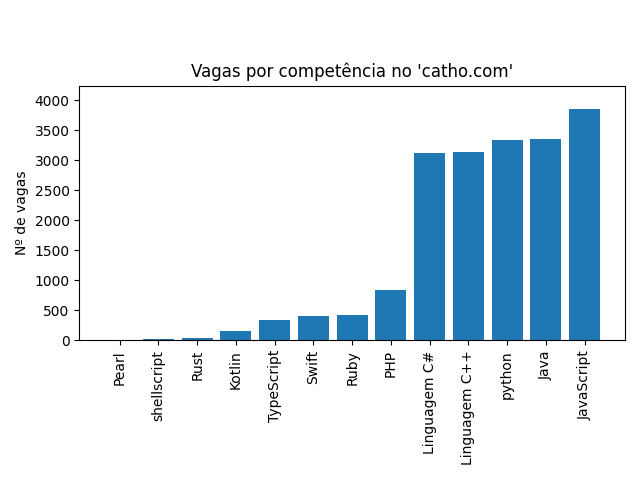
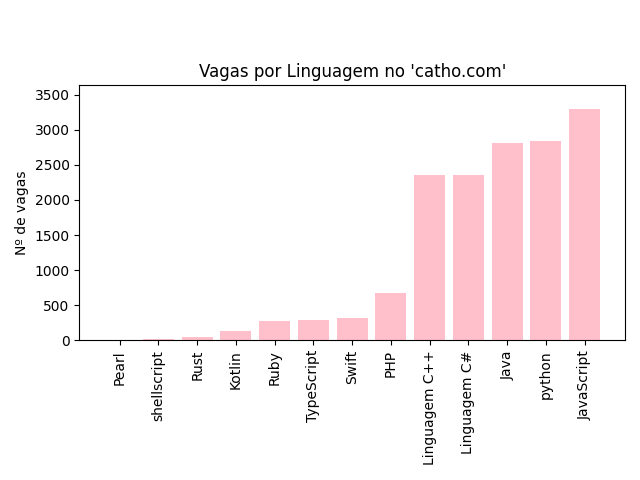
Atualizando Dados e Flexibilizando funções
Cores diferentes para cada site e títulos mais precisos

diff --git a/scraper.py b/scraper.py
@@ -18,7 +18,7 @@ def carrossel(png_files, output_file):
     c.save()
 
 
-def plot_histogram(data, site, figura):
+def plot_histogram(data, site, figura,color,competencia):
     names = list(data.keys())
     values = list(data.values())
 
@@ -29,13 +29,13 @@ def plot_histogram(data, site, figura):
     sorted_names = [names[i] for i in sorted_indices]
     sorted_values = [values[i] for i in sorted_indices]
     
-    plt.bar(range(len(data)), sorted_values, tick_label=sorted_names)
+    plt.bar(range(len(data)), sorted_values, tick_label=sorted_names,color=color)
     plt.xticks(rotation=90)
     plt.ylim(0, (1.1)*max(values));
     
     # Titulo dos eixos e do gráfico
     plt.ylabel('Nº de vagas') 
-    plt.title(f"Vagas por competência no '{site}'")
+    plt.title(f"Vagas por {competencia} no '{site}'")
 
     plt.tight_layout(rect=[0, 0, 1, 0.9])
     plt.savefig(f"{figura}.png")
@@ -142,23 +142,26 @@ def write_file(name,text):
     file.write(text);
     file.close();
 
-def execute(to_print,vector,file_name,site_name,figura):
+def execute(to_print,vector,file_name,site_name,figura,competencia):
     print(to_print);
 
     if to_print.find("Catho") > 0:
-        temp, dicionario = catho_com(vector)
+        temp, dicionario = catho_com(vector);
+        color = "pink";
 
     if to_print.find("vagas") > 0:
         temp, dicionario = vagas_com(vector);
+        color = "green";
 
     if to_print.find("infojobs") > 0:
         temp, dicionario = infojobs_com(vector);
+        color = "blue";
 
     write_file(file_name,temp);
 
-    plot_histogram(dicionario,site_name,figura);
+    plot_histogram(dicionario,site_name,figura,color,competencia);
 
-certs = ["PCNSA","MTCNA","CCNA","HCIA","JNCIA","ACMA","NSE","ITIL","COBIT","AZURE","MCSE","AWS","COMPTIA","UniFi","CISSP","GCP","OCI","PMP","VMware"];
+certs = ["PCNSA","MTCNA","CCNA","HCIA","JNCIA","NSE","ITIL","COBIT","AZURE","MCSE","AWS","COMPTIA","UniFi","CISSP","GCP","OCI","PMP","VMware"];
 langs = ['python','Linguagem C++','Linguagem C#','JavaScript','TypeScript','PHP','Swift','Kotlin','Java','Linguagem Go','Ruby','shellscript','Rust','Pearl','linguagem R']
 databases = ['Elasticsearch','MariaDB','MySQL','OracleDB','PostgresSQL','MongoDB','SQLite','Redis DB','Cassandra','IBM DB2','Splunk','Microsoft SQL Server'];
 servers = ['Apache','NGINX','LiteSpeed','Wordpress','Microsoft IIS','Tomcat','Lighttpd','Caddy']
@@ -177,27 +180,27 @@ if __name__ == "__main__":
     png_files = [];
 
     if args.certs:
-        execute("===  vagas.com: Certificados ===",certs,"vagas.csv","vagas.com","certificados-vagas");
-        execute("===  Catho.com: Certificados ===",certs,"catho.csv","catho.com","certificados-catho");
-        execute("===  infojobs.com: Certificados ===",certs,"infojobs.csv","infojobs.com","certificados-infojobs");
+        execute("===  vagas.com: Certificados ===",certs,"vagas.csv","vagas.com","certificados-vagas","Certificação");
+        execute("===  Catho.com: Certificados ===",certs,"catho.csv","catho.com","certificados-catho","Certificação");
+        execute("===  infojobs.com: Certificados ===",certs,"infojobs.csv","infojobs.com","certificados-infojobs","Certificação");
 
         png_files.append('certificados-vagas.png');
         png_files.append('certificados-catho.png');
         png_files.append('certificados-infojobs.png');
     
     if args.langs:
-        execute("===  vagas.com: Linguagens   ===",langs,"vagas.csv","vagas.com","linguagens-vagas");
-        execute("===  Catho.com: Linguagens   ===",langs,"catho.csv","catho.com","linguagens-catho");
-        execute("===  infojobs.com: Linguagens   ===",langs,"infojobs.csv","infojobs.com","linguagens-infojobs");
+        execute("===  vagas.com: Linguagens   ===",langs,"vagas.csv","vagas.com","linguagens-vagas","Linguagem");
+        execute("===  Catho.com: Linguagens   ===",langs,"catho.csv","catho.com","linguagens-catho","Linguagem");
+        execute("===  infojobs.com: Linguagens   ===",langs,"infojobs.csv","infojobs.com","linguagens-infojobs","Linguagem");
 
         png_files.append('linguagens-vagas.png');
         png_files.append('linguagens-catho.png');
         png_files.append('linguagens-infojobs.png');
     
     if args.databases:
-        execute("===  vagas.com: Banco de Dados ===",databases,"vagas.csv","vagas.com","databases-vagas");
-        execute("===  Catho.com: Banco de Dados ===",databases,"catho.csv","catho.com","databases-catho");
-        execute("===  infojobs.com: Banco de Dados ===",databases,"infojobs.csv","infojobs.com","databases-infojobs");
+        execute("===  vagas.com: Banco de Dados ===",databases,"vagas.csv","vagas.com","databases-vagas","Banco de Dados");
+        execute("===  Catho.com: Banco de Dados ===",databases,"catho.csv","catho.com","databases-catho","Banco de Dados");
+        execute("===  infojobs.com: Banco de Dados ===",databases,"infojobs.csv","infojobs.com","databases-infojobs","Banco de Dados");
 
         png_files.append('databases-vagas.png');
         png_files.append('databases-catho.png');
@@ -205,9 +208,9 @@ if __name__ == "__main__":
     
     
     if args.servers:
-        execute("===  vagas.com: Servidores   ===",servers,"vagas.csv","vagas.com","servidores-vagas");
-        execute("===  Catho.com: Servidores   ===",servers,"catho.csv","catho.com","servidores-catho");
-        execute("===  infojobs.com: Servidores   ===",servers,"infojobs.csv","infojobs.com","servidores-infojobs");
+        execute("===  vagas.com: Servidores   ===",servers,"vagas.csv","vagas.com","servidores-vagas","Servidores");
+        execute("===  Catho.com: Servidores   ===",servers,"catho.csv","catho.com","servidores-catho","Servidores");
+        execute("===  infojobs.com: Servidores   ===",servers,"infojobs.csv","infojobs.com","servidores-infojobs","Servidores");
 
         png_files.append('servidores-vagas.png');
         png_files.append('servidores-catho.png');
